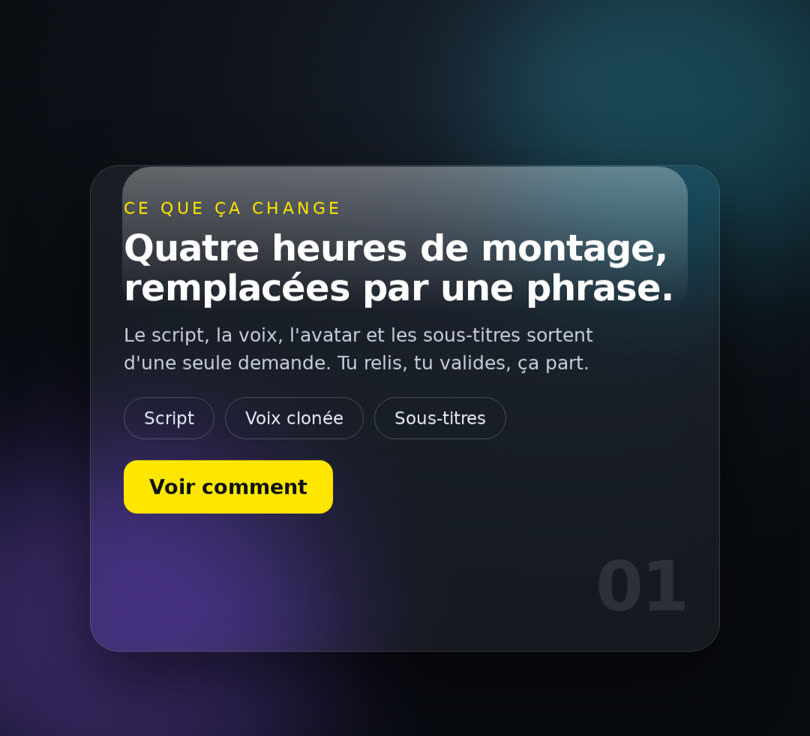
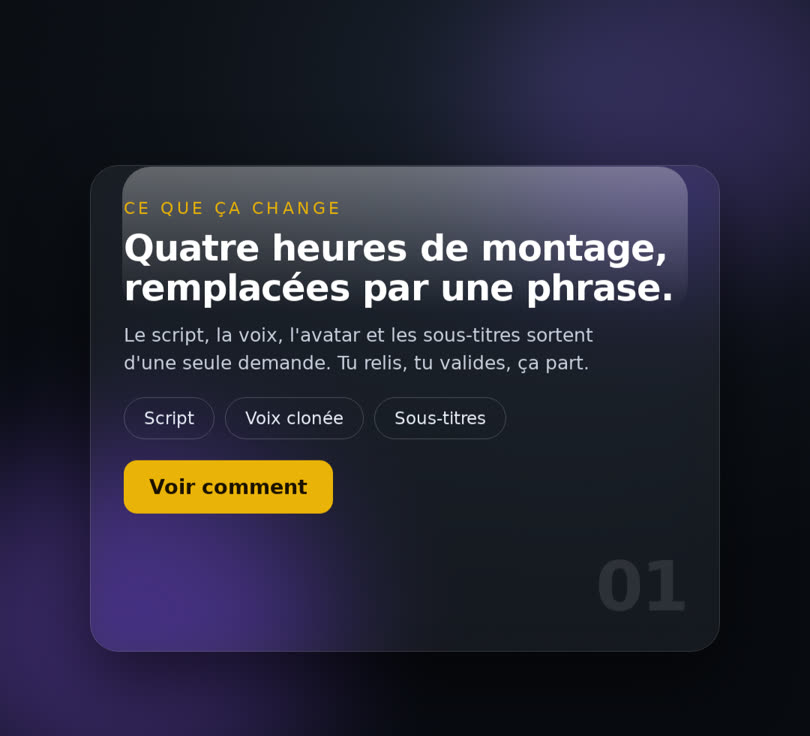
ui-kit: align 7 templates with DESIGN.md (single gold accent, brand gold, console green, ink on gold); taches: idea box feeding the backlog
Claude-Session: https://claude.ai/code/session_012Yfg9btguS5uZxBCQtciHk

Changed region(s): [[0.7407, 0.0312, 0.9568, 0.3438], [0.1543, 0.625, 0.4321, 0.7188], [0.3395, 0.2812, 0.3704, 0.3125]]

diff --git a/taches/valider/index.html b/taches/valider/index.html
@@ -61,6 +61,18 @@
   .bandeau b{color:var(--blanc)}
   .qui{font-size:11px;letter-spacing:.14em;text-transform:uppercase;border-radius:999px;padding:3px 9px;white-space:nowrap;font-weight:700}
   .q-toi{background:#3b2a06;color:#fbbf24}.q-claude{background:#0d2a3a;color:#60a5fa}
+  .idee{background:var(--carte);border:1px solid var(--ligne);border-left:3px solid var(--ambre);border-radius:12px;padding:14px 16px;margin:0 0 18px}
+  .idee h2{font-size:15px;font-weight:650;margin-bottom:4px}
+  .idee p{font-size:13.5px;color:var(--gris);margin-bottom:10px}
+  .idee textarea{width:100%;font:inherit;font-size:16px;line-height:1.5;color:var(--blanc);background:#0a0d12;
+    border:1px solid var(--ligne);border-radius:9px;padding:11px 12px;resize:vertical;min-height:76px}
+  .idee textarea:focus{outline:0;border-color:var(--ambre)}
+  .idee .bas{display:flex;gap:8px;align-items:center;margin-top:9px}
+  .idee .bas button{background:#2a2205;border-color:#6b5510;color:#ffd97a}
+  .idee .dit{font-size:13px;color:var(--gris)}
+  .idees-liste{list-style:none;display:flex;flex-direction:column;gap:8px;margin-top:12px}
+  .idees-liste li{background:#0a0d12;border:1px solid var(--ligne);border-radius:9px;padding:10px 12px;font-size:14.5px;line-height:1.5}
+  .idees-liste li b{display:block;font-size:11.5px;letter-spacing:.1em;text-transform:uppercase;color:var(--gris);margin-bottom:4px;font-weight:600}
   .filtres{display:flex;gap:8px;flex-wrap:wrap;margin:0 0 18px}
   .filtres button{min-height:40px;padding:8px 14px;font-size:14px}
   .filtres button[aria-pressed=true]{border-color:var(--ambre);color:var(--ambre);background:#1f1705}
@@ -85,6 +97,13 @@
   <p class="sous">Tu dis oui, je le fais. Quand c’est livré, tu dis si ça passe.
      Rien ne se lance sans ton feu vert — et rien n’est considéré fini sans ton « c’est bon ».</p>
   <div class="compte" id="compte"></div>
+  <div class="idee">
+    <h2>Une idée, une tâche à lancer</h2>
+    <p>Écris-la ici, même mal formulée. Elle part dans mon backlog et je te la remets en tâche à valider, chiffrée et découpée.</p>
+    <textarea id="idee-txt" placeholder="Ex : envoyer les démos aux 116 commerces qui ont un email"></textarea>
+    <div class="bas"><button type="button" id="idee-ok">Envoyer dans le backlog</button><span class="dit" id="idee-dit"></span></div>
+    <ul class="idees-liste" id="idees-liste"></ul>
+  </div>
   <div class="filtres" id="filtres">
     <button type="button" data-f="ouvert" aria-pressed="true">Ouvertes</button>
     <button type="button" data-f="toi">Pour toi</button>
@@ -2632,7 +2651,34 @@
         'Impossible de lire tes décisions — la page affiche les états par défaut.';
     }
     peindre();
+    peindreIdees();
   })();
+
+  /* ── boîte à idées : même magasin que les décisions, clés « idee:<horodatage> ».
+     Le tableau ignore les clés sans carte, donc rien n'entre en conflit. ─────── */
+  const peindreIdees = () => {
+    const l = document.getElementById('idees-liste');
+    const arr = Object.entries(etat).filter(([k, v]) => k.startsWith('idee:') && v && v.texte)
+      .sort((a, b) => b[0].localeCompare(a[0]));
+    l.innerHTML = arr.map(([k, v]) => {
+      const d = new Date(v.maj || Number(k.slice(5)));
+      const st = v.etat === 'traitee' ? 'Reprise en tâche' : 'Dans le backlog';
+      return '<li><b>' + st + ' · ' + d.toLocaleString('fr-FR') + '</b>' +
+             v.texte.replace(/[&<>]/g, (c) => ({ '&': '&amp;', '<': '&lt;', '>': '&gt;' }[c])) + '</li>';
+    }).join('');
+  };
+  document.getElementById('idee-ok').onclick = () => {
+    const t = document.getElementById('idee-txt');
+    const txt = t.value.trim();
+    if (!txt) { t.focus(); return; }
+    etat['idee:' + Date.now()] = { etat: 'idee', texte: txt, maj: new Date().toISOString() };
+    t.value = '';
+    document.getElementById('idee-dit').textContent = 'Envoyée. Je la reprends au prochain passage.';
+    setTimeout(() => { document.getElementById('idee-dit').textContent = ''; }, 4000);
+    peindreIdees();
+    duNeuf = true;
+    envoyer();
+  };
 
   /* ── filtres Toi / Claude ─────────────────────────────────────────── */
   const F = document.getElementById('filtres');

diff --git a/ui-kit/index.html b/ui-kit/index.html
@@ -75,6 +75,14 @@
 <section><h2>Sur « reproduire exactement »</h2>
 <p>Ce modèle vient d'une maquette 3D que tu m'as montrée. Je ne la copie pas à l'identique, pour deux raisons : c'est le travail d'un autre studio, et elle contient des produits de marque. Ce que je reproduis, c'est la <b>technique</b> : cartes inclinées sur trois axes en perspective, palette pastel, ombres portées longues, objets qui flottent, reflet coloré au sol.</p>
 <p>Ce qui manque par rapport à un vrai rendu 3D : la profondeur de champ, les reflets physiques et la matière des objets. Pour ça il faudrait un moteur 3D ou un modèle d'image — et les deux comptes de génération sont à sec (Higgsfield 0,47 crédit, Kie 1,92). Recharge l'un des deux et je te sors la version photoréaliste sur le même agencement.</p></section>
+<section><h2>Contrôle qualité — passé le 8 septembre</h2>
+<p>Les sept modèles ont été repassés au crible de ton système de design. Cinq écarts corrigés :</p>
+<p>· <b>Le doré</b> était en <code>#FFE600</code> partout, ta charte dit <code>#eab308</code>. Unifié.<br>
+· <b>Un seul doré par écran</b> : les lueurs dorées en double sont passées en violet ou en gris. Le doré ne signale plus qu'une action.<br>
+· <b>Le cyan n'existe pas dans ta charte</b> : remplacé par le violet signal.<br>
+· <b>Le code s'écrit en vert console</b> <code>#a3e635</code> sur noir, pas en doré. Corrigé sur le panneau de réglages.<br>
+· <b>Le texte sur un fond doré</b> est presque noir <code>#1a1200</code>, jamais blanc. Corrigé sur les boutons.</p>
+<p>Un écart demeure, et il ne se corrige pas ici : ta charte demande Sora, Inter et JetBrains Mono. Seule DejaVu est installée sur cette machine, donc les rendus sortent en DejaVu. Pour avoir tes polices dans les vidéos, il faut installer les fichiers WOFF2 ; dis-moi et je le fais.</p></section>
 <section><h2>Ce qui reste à faire</h2>
 <p>Le texte de chaque modèle est écrit en dur pour l'instant. Dis-moi lesquels tu gardes et je les rends paramétrables : tu donnes le titre, les libellés et les noms de nœuds, le reste suit.</p></section>
 <p class="pied">Créé le 07/09/2026 · sept templates · police DejaVu (la seule installée ici) · palette AutomationBoost</p>
